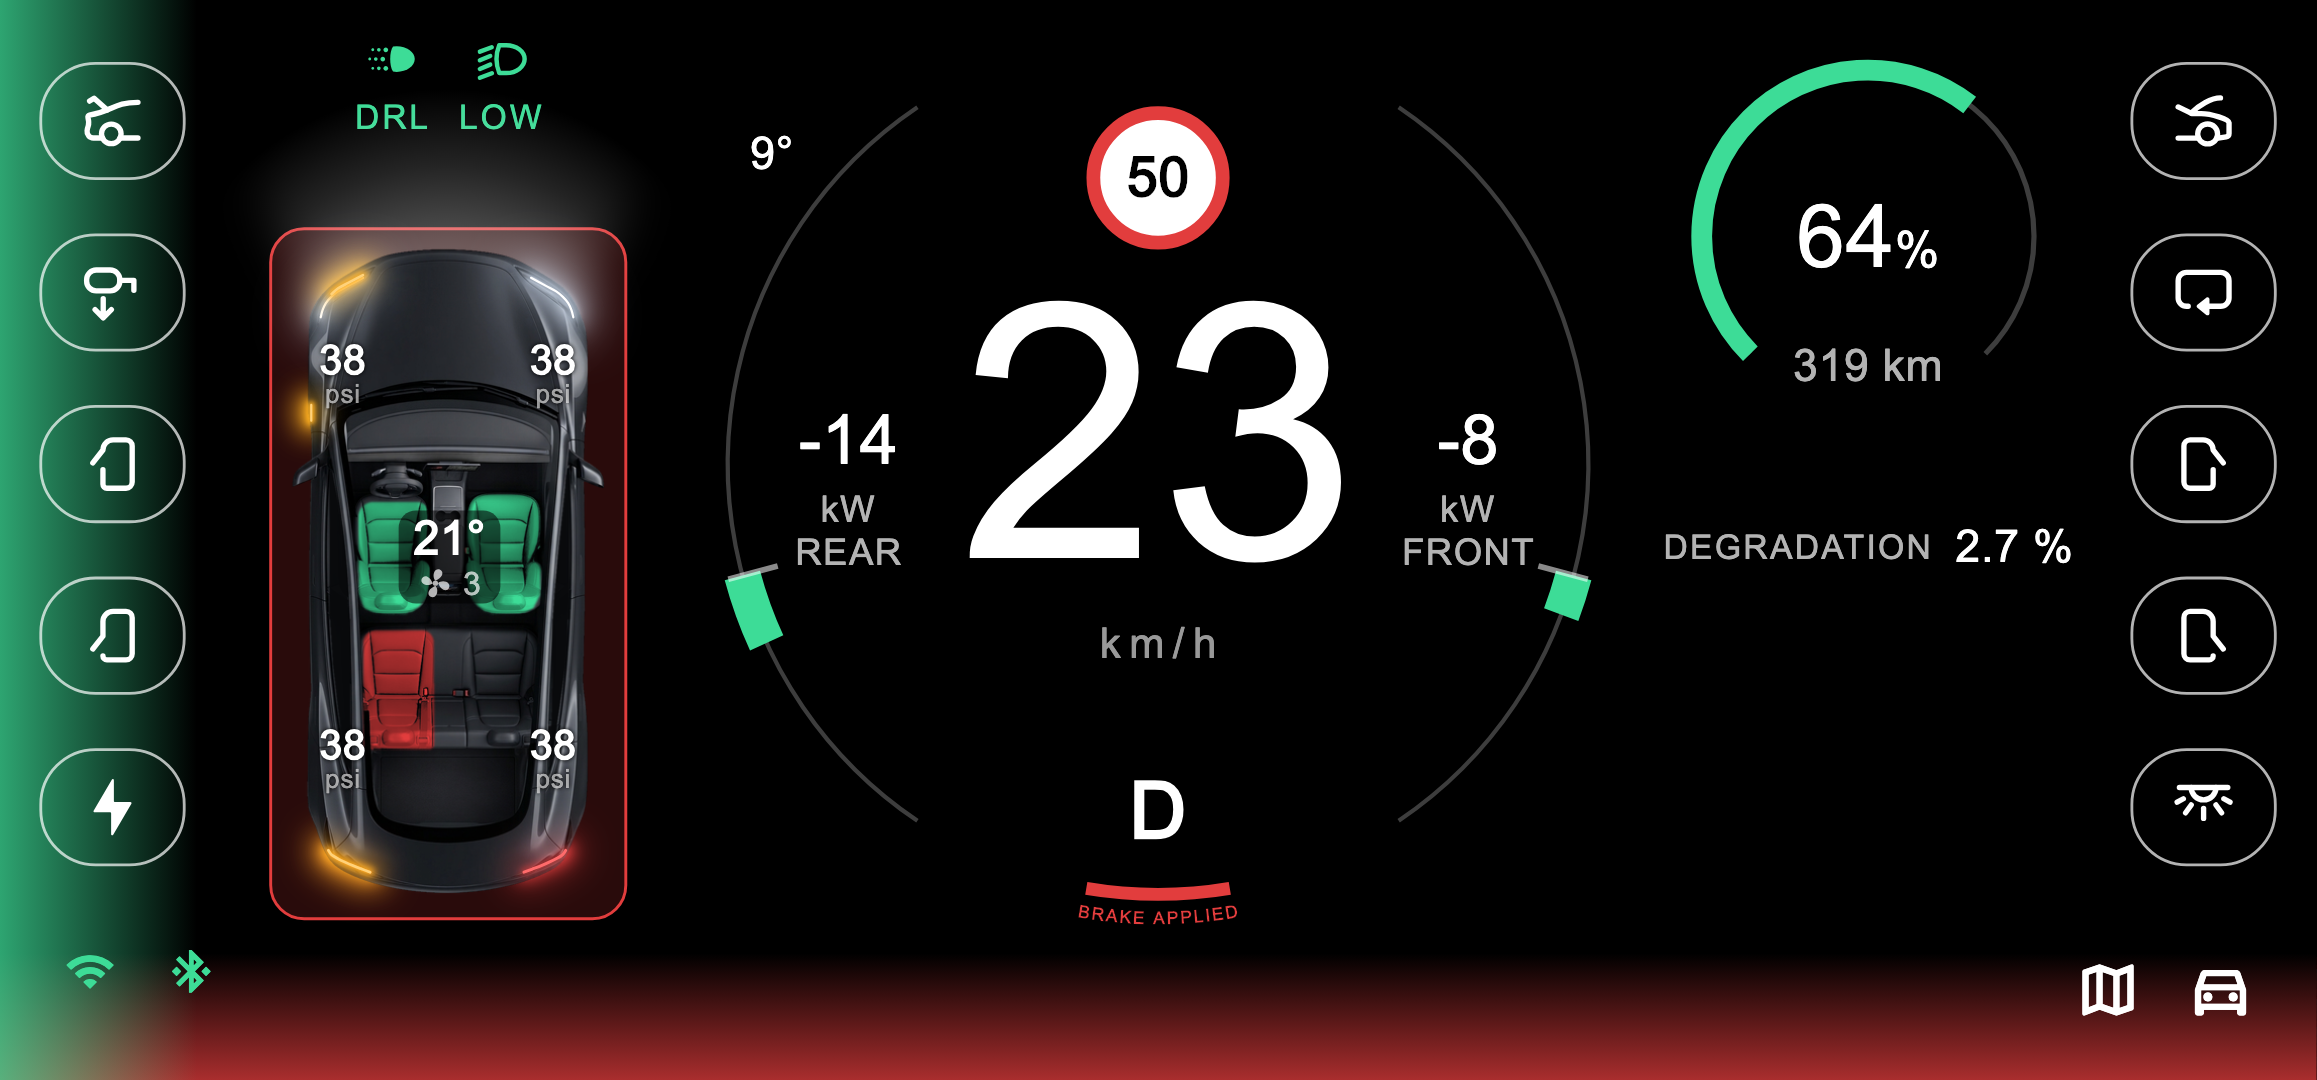
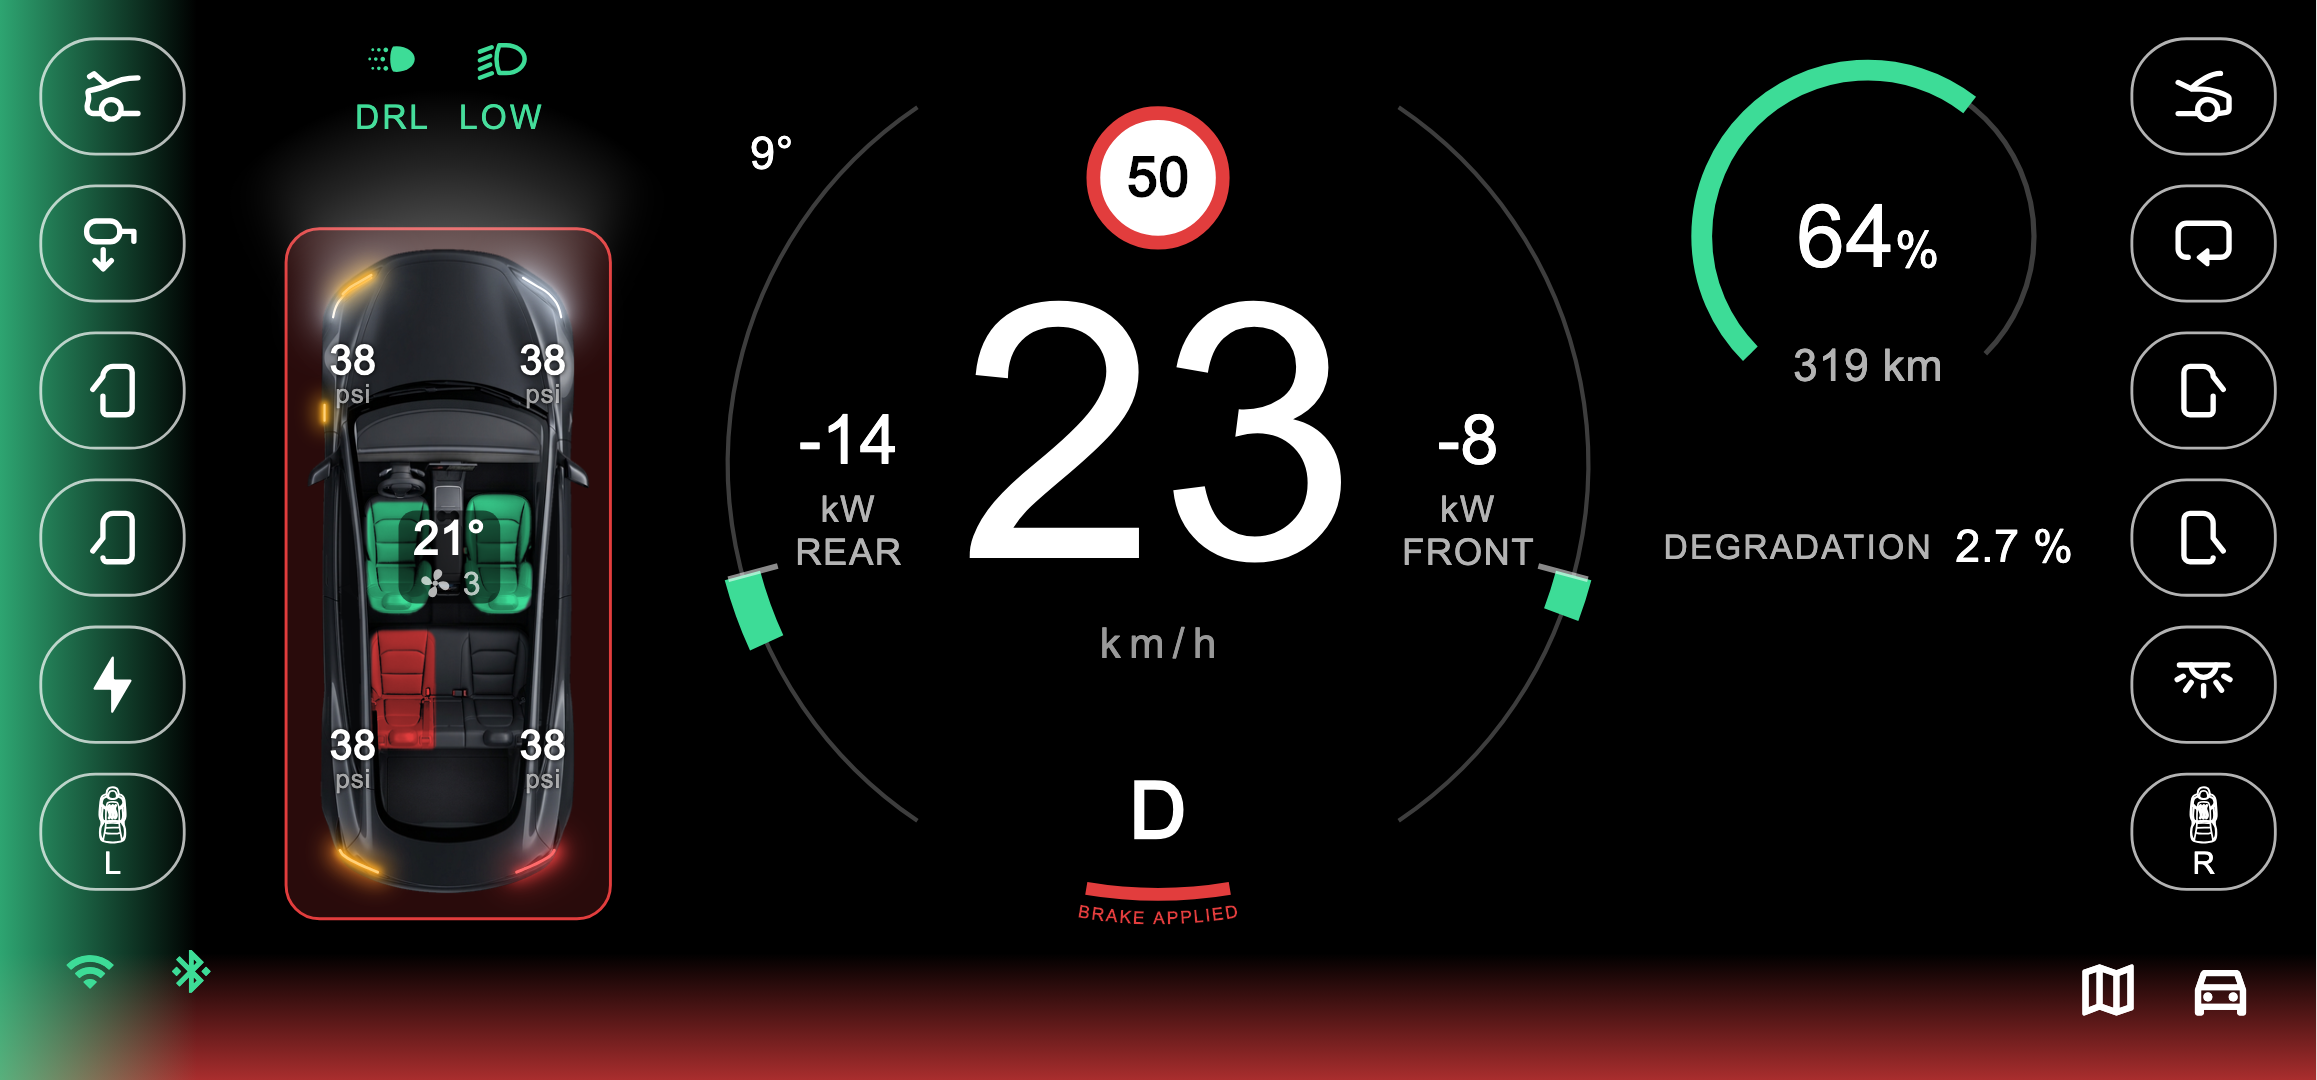
docs: the screenshots and the drive redrawn, the buttons described
- every screenshot with buttons and the drive's GIF redrawn: the seat
  massage's L and R buttons, six a side
- README: the massage buttons, the car controls' every S3XY function and
  Add to home screen; lib/car_actions.dart in the file list

Changed region(s): [[0.0, 0.0306, 0.2797, 0.8556], [0.9012, 0.0306, 0.9944, 0.6417], [0.9012, 0.6722, 0.9944, 0.825]]

diff --git a/README.md b/README.md
@@ -64,9 +64,15 @@ test/dash_shot_test.dart` redraws them. The drive is `test/drive_video_test.dart
 (or an MP4 by `tools/frames_to_mp4.swift`).
 
 Buttons down both sides act on the car through the Commander, each door
-on its own side: trunk, mirror tilt and the charge port on the left,
-frunk, recirculation and interior lights on the right. The car controls
-(locks, honk, flash, climate) are under the car icon in the bottom bar.
+on its own side: trunk, mirror tilt, the charge port and the driver's seat
+massage on the left, frunk, recirculation, interior lights and the
+passenger's seat massage on the right. A massage button (L or R) offers
+Soft, Pulse and Hard, the running mode ticked; picked again, it stops.
+The car controls, under the car icon in the bottom bar, hold every S3XY
+function a Model 3 or Y has, in the S3XY app's groups and names
+(`lib/car_actions.dart`). Each can be pressed there or put on the dash in
+place of one of its twelve buttons (Add to home screen); Restore default
+buttons brings the dash's own back.
 
 **Basic layout** (picked at the first launch, a switch in the settings, or a
 tap on the gear under the speed, which swaps back too):
@@ -219,7 +225,8 @@ sudo xcode-select -s /Applications/Xcode.app/Contents/Developer
 | `lib/update.dart` | the in-app update from GitHub's releases (Android) |
 | `lib/changelog.dart` | what each release changed, shown after an update and in the settings: a release adds its entry |
 | `lib/glyphs.dart` | the car's icons, as vector paths |
-| `lib/car_panel.dart` | the car controls (the bottom bar's car icon) |
+| `lib/car_panel.dart` | the car controls (the bottom bar's car icon): every S3XY function, Execute or Add to home screen |
+| `lib/car_actions.dart` | every S3XY function (groups, names, ids, options), the dash's twelve button slots; the screens' table is generated from it |
 | `lib/diag.dart` | Diagnostics |
 
 [docs/signals-and-actions.md](docs/signals-and-actions.md) maps every value
